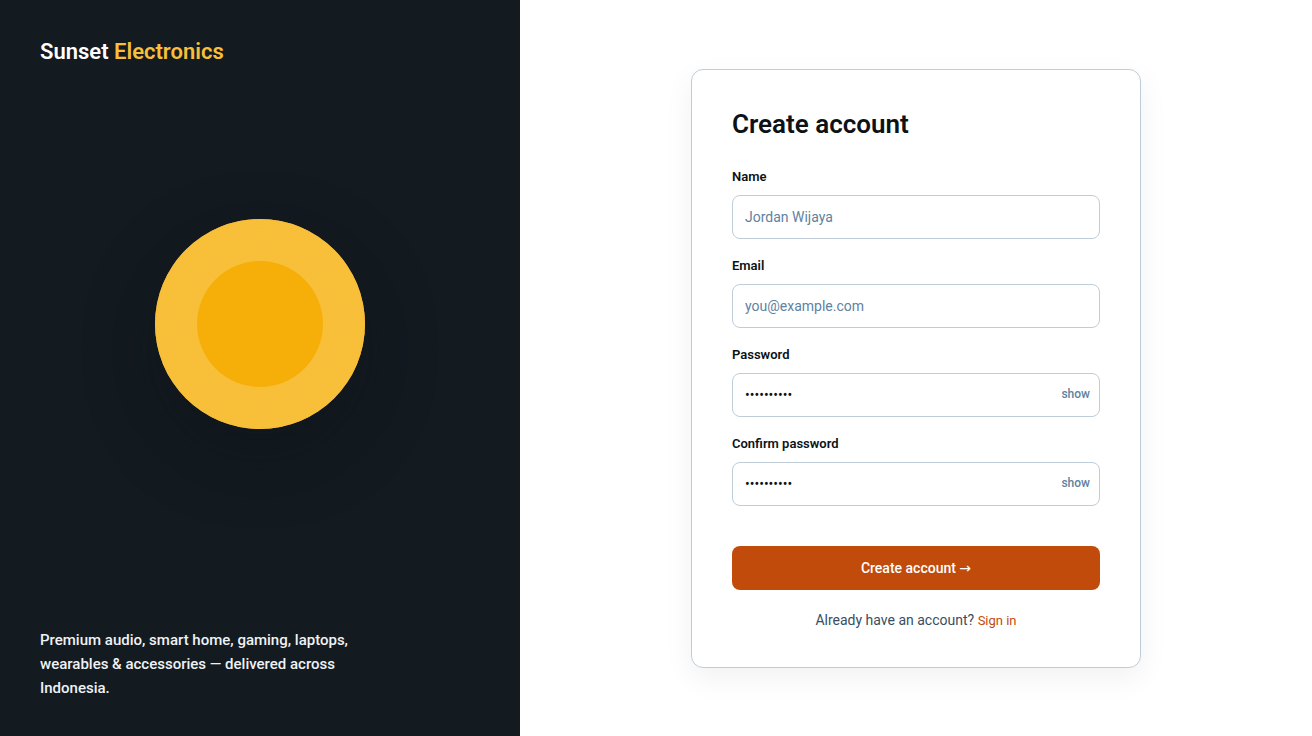
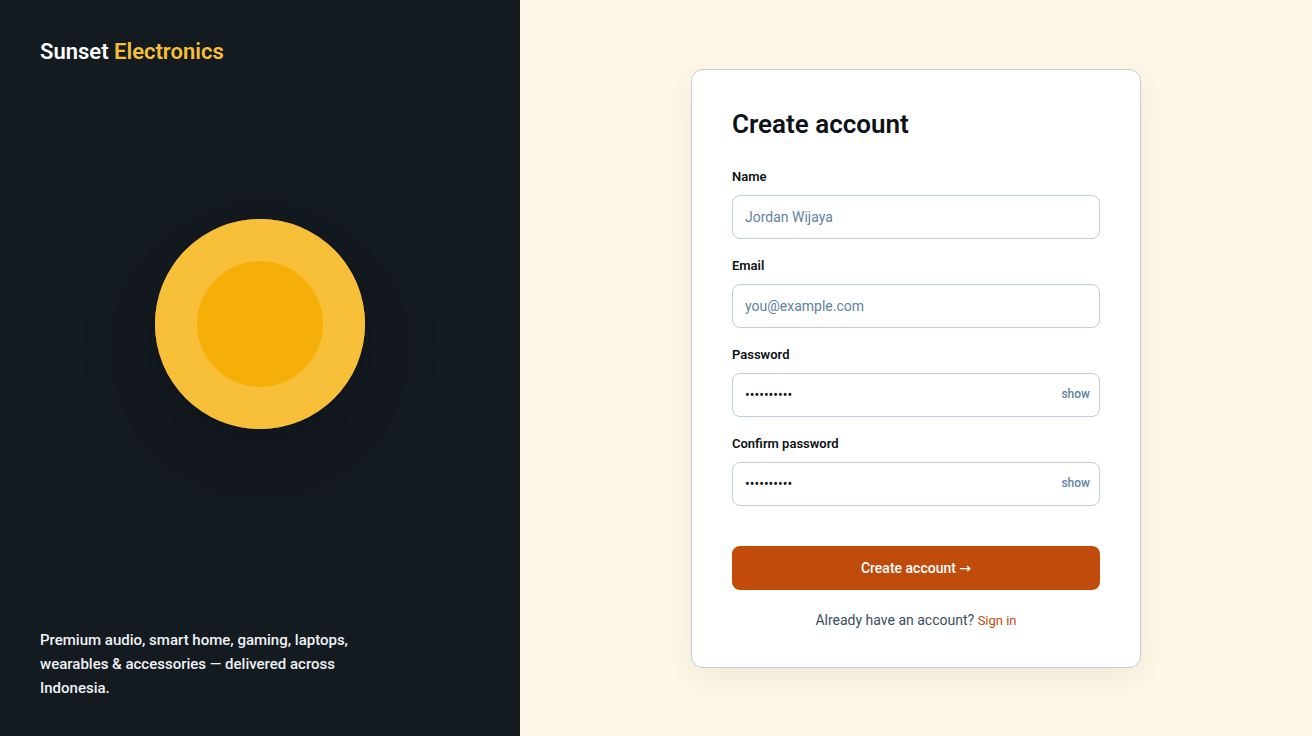
fix(mockup): apply tuscanSun-50 ground to auth pages + re-render all 13 mockups
- pages_auth.py: body wrapper background #fff -> var(--canvas) (tuscanSun-50
  ground). Auth login/register docs' COLOR-USAGE tables already spec the
  dominant-ground treatment for the form side; the generator had missed it.
- re-rendered all 13 docs/<p>/mockup.png via build_html.py -> render.py ->
  rebuild_docs_png.sh (headless Chromium, 1312x736, --virtual-time-budget).
  13/13 ok, docs == out == fresh render verified.

diff --git a/_mockup-build/pages_auth.py b/_mockup-build/pages_auth.py
@@ -23,7 +23,9 @@ def auth_layout(title, h1, fields_html, submit_label, link_html):
         <div style="margin-top:20px;font-size:14px;line-height:20px;font-weight:400;color:var(--bs-700);text-align:center">{link_html}</div>
       </div>
     </div>'''
-    body = f'<div style="display:flex;min-height:736px;background:#fff">{brand}{form}</div>'
+    # R7 §11.2: auth pages take the dominant-ground treatment — form side sits
+    # on the tuscanSun-50 ground; the 450px form card above stays #fff (30% surface).
+    body = f'<div style="display:flex;min-height:736px;background:var(--canvas)">{brand}{form}</div>'
     return page_wrap(body, "", title)
 
 def text_field(label, ph):
